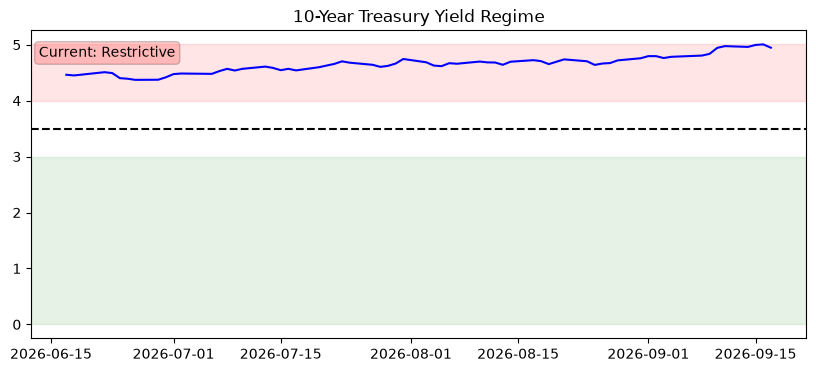
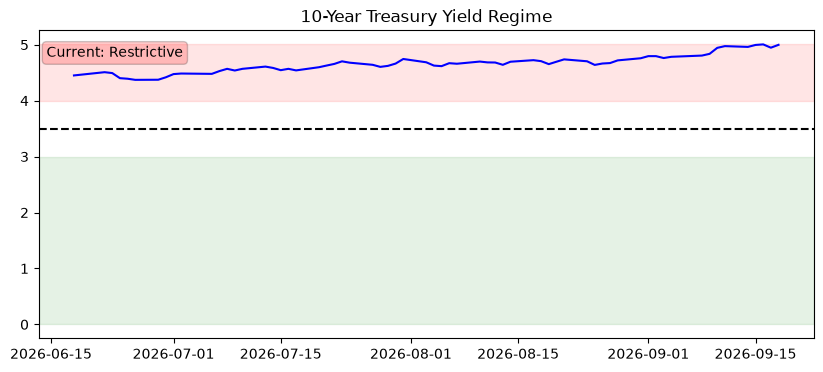
Update market summary

diff --git a/README.md b/README.md
@@ -23,18 +23,22 @@ Seek out the information you need for your future self!
 
 ## AI Risk Commentary
 
-**Risk Commentary**  
-The market remains in a recovery regime with equities above key moving averages and volatility subdued. However, restrictive mortgage rates and a deeply negative income spread signal persistent headwinds for rate-sensitive sectors and equity income appeal. Bond yields continue to offer a compelling alternative to dividend yields.
+ **Risk Commentary**
 
-**Market Summary**
-- **SPY Trend**: Price ($762.6) > MA200 ($715.87) — uptrend intact  
-- **VIX**: 15.44 — low, stable volatility environment  
-- **Yield Context**: 10Y yield at 4.95% (TNX), income spread at -4.02% (SPY div yield 0.99% vs 10Y 5.01%) — **favors bonds**  
-- **Mortgage Rate**: 6.95%, condition **Unfavorable** — stable  
-- **ARKK**: +8.39% 3M — risk-on momentum persistent  
-- **OVX**: 52.11, regime low — stable oil volatility  
+The market remains in a Recovery regime supported by a solid SPY uptrend (price above the 200-day) and a sub-16 VIX suggesting low near-term fear. However, the income spread is deeply negative at -3.95% (0.99% dividend yield vs 4.94% 10-year yield), which explicitly favors bonds over equities on an income basis — a headwind for equity valuation, particularly in higher-multiple growth names. Mortgage rates at 6.95% remain unfavorable, pressuring housing/refinancing activity. Overall conditions appear stable versus the prior snapshot; no material deterioration or improvement signaled.
 
-*Raw data available in /data*
+**Bullet-Point Market Summary**
+
+- 🟢 **Regime:** Recovery (unchanged) — risk appetite supported by ARKK up +8.4% over 3 months.
+- 📈 **SPY trend:** Uptrend — trading at $762.6, well above the 200-day MA ($715.87).
+- 😌 **VIX:** 15.44 — low volatility environment, suggesting market complacency.
+- 🏠 **Mortgage:** 6.95% rate — condition **Unfavorable** (stable) — a drag on housing affordability.
+- 💰 **Income spread:** SPY div yield 0.99% vs 10Y yield 4.94% (-3.95% spread) — this **explicitly favors bonds over equities** on an income basis.
+- 📊 **Yield context:** TNX at 5.0% — elevated, reinforcing the bond income advantage.
+- 🛢 **OVX:** 52.11 (low regime) — stable oil volatility, supportive of risk sentiment.
+- 📁 **Raw data:** Available in `/data`.
+
+Conditions are stable overall; the bond-vs-equity income spread remains the main structural negative for stocks.
 
 ---
 
